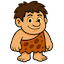
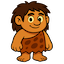
add mobile support

diff --git a/components/MapCanvas.vue b/components/MapCanvas.vue
@@ -2,27 +2,30 @@
   <div class="w-full h-full flex items-center justify-center">
     <canvas
       ref="canvas"
-      class="absolute inset-0 w-full h-full bg-zinc-900"
+      class="absolute inset-0 w-full h-full touch-none bg-zinc-900"
       @mousedown="handleMouseDown"
       @mousemove="handleMouseMove"
       @mouseup="handleMouseUp"
       @mouseleave="handleMouseUp"
       @wheel.prevent="handleWheel"
+      @touchstart="handleTouchStart"
+      @touchmove="handleTouchMove"
+      @touchend="handleTouchEnd"
     />
   </div>
 </template>
 
 <script setup>
-import { ref, onMounted, onBeforeUnmount } from "vue";
+import { ref, onMounted, onBeforeUnmount, nextTick } from "vue";
 import { useResourceStore } from "@/stores/useResourceStore";
 import { useMapStore } from "@/stores/useMapStore";
+import { useMeepleStore } from "@/stores/useMeepleStore";
 
 const mapStore = useMapStore();
 const resourceStore = useResourceStore();
 
 const canvas = ref(null);
 let hoveredTile = null;
-const zoomLevel = 1;
 const minZoom = 0.5;
 const maxZoom = 3;
 
@@ -32,11 +35,11 @@ function handleMouseDown(event) {
   mapStore.camera.lastY = event.clientY;
   mapStore.camera.startX = event.clientX;
   mapStore.camera.startY = event.clientY;
-  event.target.style.cursor = "grabbing";
+  canvas.value.style.cursor = "grabbing";
 }
 
 function handleMouseMove(event) {
-  const canvasEl = event.target;
+  const canvasEl = canvas.value;
 
   if (mapStore.camera.isDragging) {
     const dx = event.clientX - mapStore.camera.lastX;
@@ -60,6 +63,67 @@ function handleMouseMove(event) {
   }
 }
 
+function handleMouseUp(event) {
+  const canvasEl = canvas.value;
+  mapStore.camera.isDragging = false;
+  canvasEl.style.cursor = "default";
+
+  const clientX = event?.clientX ?? mapStore.camera.lastX;
+  const clientY = event?.clientY ?? mapStore.camera.lastY;
+
+  const moved =
+    Math.abs(clientX - mapStore.camera.startX) > 5 ||
+    Math.abs(clientY - mapStore.camera.startY) > 5;
+
+  if (moved) return;
+
+  const { x, y } = mapStore.screenToIso(clientX, clientY, canvasEl);
+  const cell = mapStore.map[y]?.[x];
+
+  if (x >= 0 && x < mapStore.cols && y >= 0 && y < mapStore.rows) {
+    mapStore.placeBuildingAt(x, y, canvasEl);
+  } else if (mapStore.selectedBuilding) {
+    mapStore.selectedBuilding = null;
+    mapStore.draw(canvasEl);
+  }
+}
+
+function handleWheel(event) {
+  event.preventDefault();
+
+  const zoomIntensity = 0.1;
+  const direction = event.deltaY > 0 ? -1 : 1;
+
+  mapStore.camera.zoom += direction * zoomIntensity;
+  mapStore.camera.zoom = Math.min(
+    Math.max(mapStore.camera.zoom, minZoom),
+    maxZoom
+  );
+
+  mapStore.draw(canvas.value);
+}
+
+function handleKeydown(e) {
+  if (e.code === "Escape") {
+    mapStore.selectedBuilding = null;
+    mapStore.draw(canvas.value);
+  }
+}
+
+function handleTouchStart(e) {
+  const touch = e.touches[0];
+  handleMouseDown({ clientX: touch.clientX, clientY: touch.clientY });
+}
+
+function handleTouchMove(e) {
+  const touch = e.touches[0];
+  handleMouseMove({ clientX: touch.clientX, clientY: touch.clientY });
+}
+
+function handleTouchEnd() {
+  handleMouseUp({});
+}
+
 let animationFrameId;
 
 function startAnimationLoop() {
@@ -76,47 +140,8 @@ function stopAnimationLoop() {
   cancelAnimationFrame(animationFrameId);
 }
 
-function handleMouseUp(event) {
-  const canvasEl = event.target;
-
-  mapStore.camera.isDragging = false;
-  canvasEl.style.cursor = "default";
-
-  const moved =
-    Math.abs(event.clientX - mapStore.camera.startX) > 5 ||
-    Math.abs(event.clientY - mapStore.camera.startY) > 5;
-
-  if (moved) return;
-
-  const { x, y } = mapStore.screenToIso(event.clientX, event.clientY, canvasEl);
-  const cell = mapStore.map[y]?.[x];
-
-  if (x >= 0 && x < mapStore.cols && y >= 0 && y < mapStore.rows) {
-    mapStore.placeBuildingAt(x, y, canvasEl);
-  } else if (mapStore.selectedBuilding) {
-    // Clic dans la zone noire → désélection
-    mapStore.selectedBuilding = null;
-    mapStore.draw(document.querySelector("canvas")); // force le redraw
-  }
-}
-
-function handleWheel(event) {
-  event.preventDefault();
-
-  const zoomIntensity = 0.1;
-  const direction = event.deltaY > 0 ? -1 : 1;
-
-  mapStore.camera.zoom += direction * zoomIntensity;
-  mapStore.camera.zoom = Math.min(Math.max(mapStore.camera.zoom, 0.5), 3);
-
+function handleResize() {
   mapStore.draw(canvas.value);
-}
-
-function handleKeydown(e) {
-  if (e.code === "Escape") {
-    mapStore.selectedBuilding = null;
-    mapStore.draw(canvas.value);
-  }
 }
 
 onMounted(async () => {
@@ -125,18 +150,16 @@ onMounted(async () => {
 
   startAnimationLoop();
   useMeepleStore().startContinuousMovement();
+  resourceStore.startResourceIncome(mapStore.map);
 
-  // 💰 Démarre la génération des ressources automatiques
-  resourceStore.startResourceIncome(mapStore.map); // Direct, pas de conditions
-
-  window.addEventListener("resize", () => mapStore.draw(canvas.value));
+  window.addEventListener("resize", handleResize);
   window.addEventListener("keydown", handleKeydown);
 });
 
 onBeforeUnmount(() => {
   stopAnimationLoop();
 
-  window.removeEventListener("resize", () => mapStore.draw(canvas.value));
+  window.removeEventListener("resize", handleResize);
   window.removeEventListener("keydown", handleKeydown);
 });
 </script>
@@ -145,5 +168,6 @@ onBeforeUnmount(() => {
 canvas {
   display: block;
   cursor: default;
+  touch-action: none;
 }
 </style>

diff --git a/stores/useMapStore.js b/stores/useMapStore.js
@@ -143,7 +143,8 @@ export const useMapStore = defineStore(
           depth: meeple.drawX + meeple.drawY + 0.8,
           screenX: drawX + offset,
           screenY: drawY + hop,
-          flip: meeple.facing === "left", // 👈 on ajoute ça
+          flip: meeple.facing === "left",
+          sprite: meeple.type === "f" ? "meeple_f" : "meeple_h",
         });
       }
 
@@ -168,12 +169,12 @@ export const useMapStore = defineStore(
           if (item.type === "meeple") {
             drawImageAt(
               ctx,
-              "meeple",
+              item.sprite,
               item.screenX,
               item.screenY,
               "small",
               1,
-              item.flip // 👈 ici c’est disponible
+              item.flip
             );
           }
         }

diff --git a/stores/useMeepleStore.js b/stores/useMeepleStore.js
@@ -17,6 +17,7 @@ export const useMeepleStore = defineStore("meeple", () => {
       drawY: y,
       speed: 0.001 + Math.random() * 0.002,
       hopPhase: Math.random() * Math.PI * 2,
+      type: Math.random() < 0.5 ? "f" : "h",
     });
   }
 
@@ -87,6 +88,13 @@ export const useMeepleStore = defineStore("meeple", () => {
       } else {
         meeple.drawX += (dx / distance) * step;
         meeple.drawY += (dy / distance) * step;
+
+        // 👇 Mise à jour du facing pendant le déplacement
+        if (dx < 0) {
+          meeple.facing = "left";
+        } else if (dx > 0) {
+          meeple.facing = "right";
+        }
       }
     }
   }
